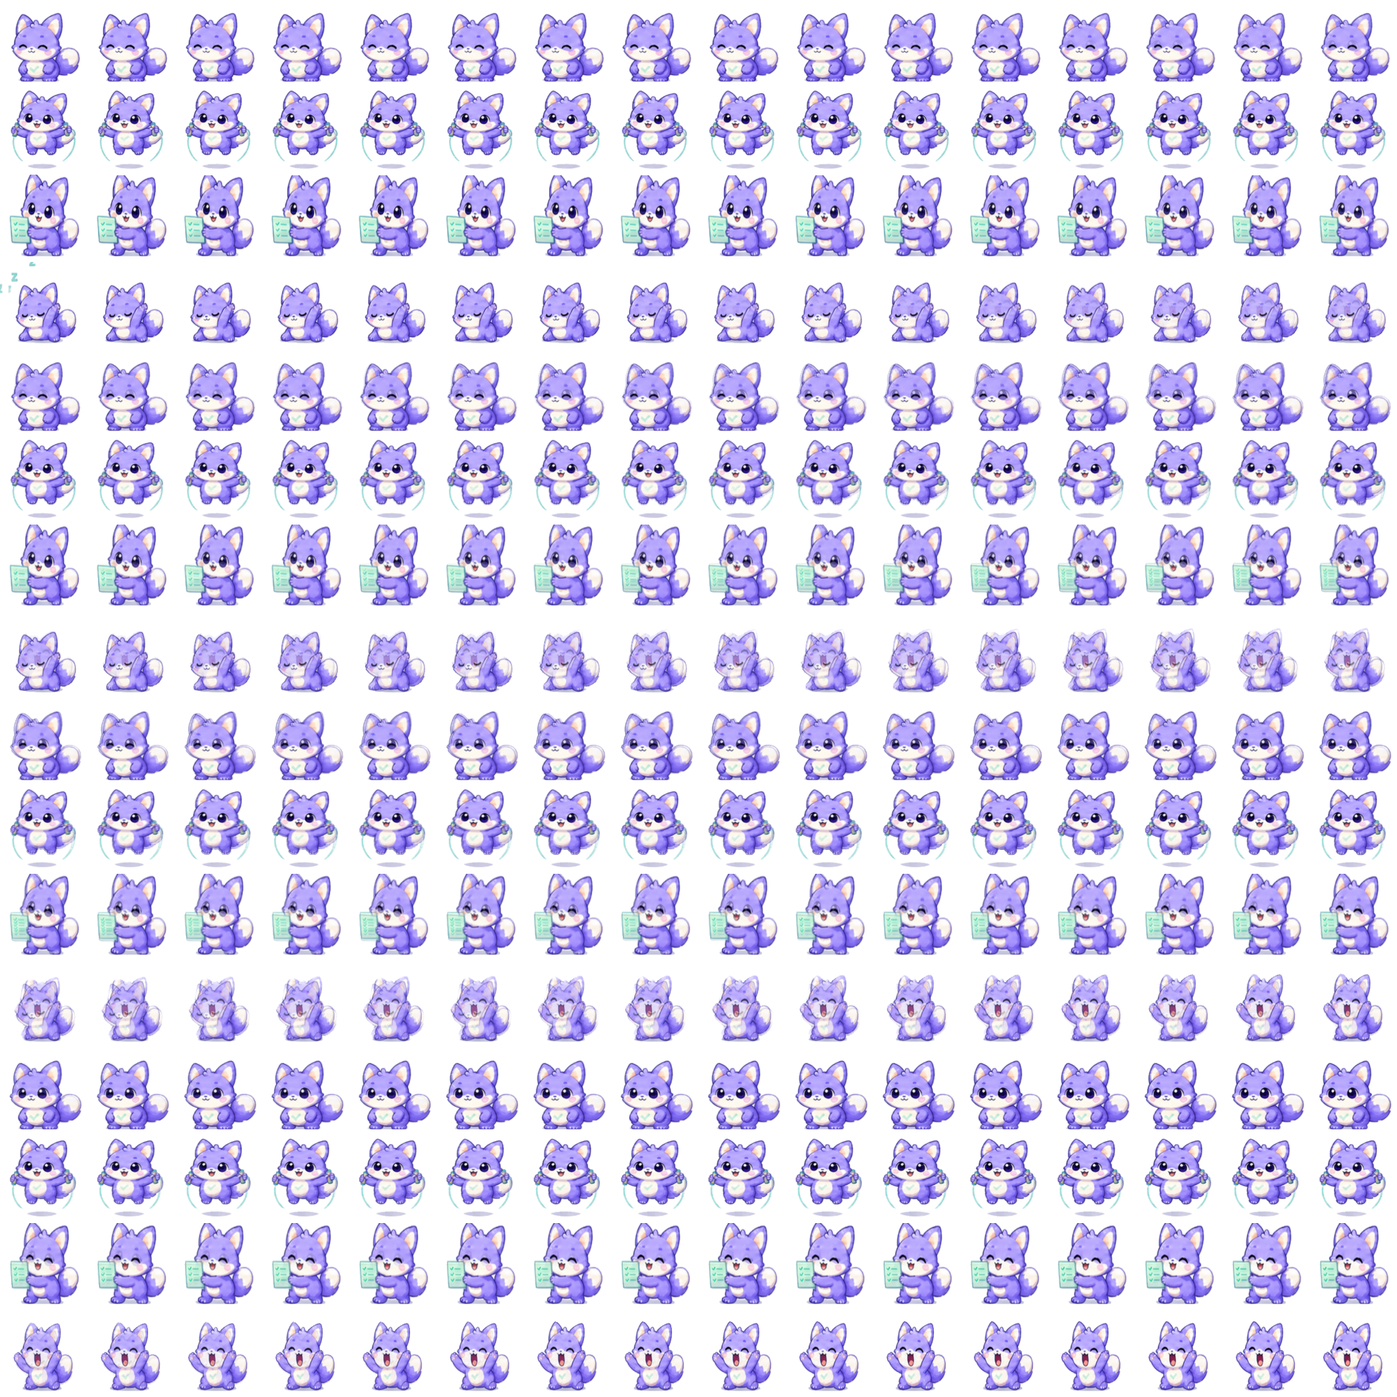
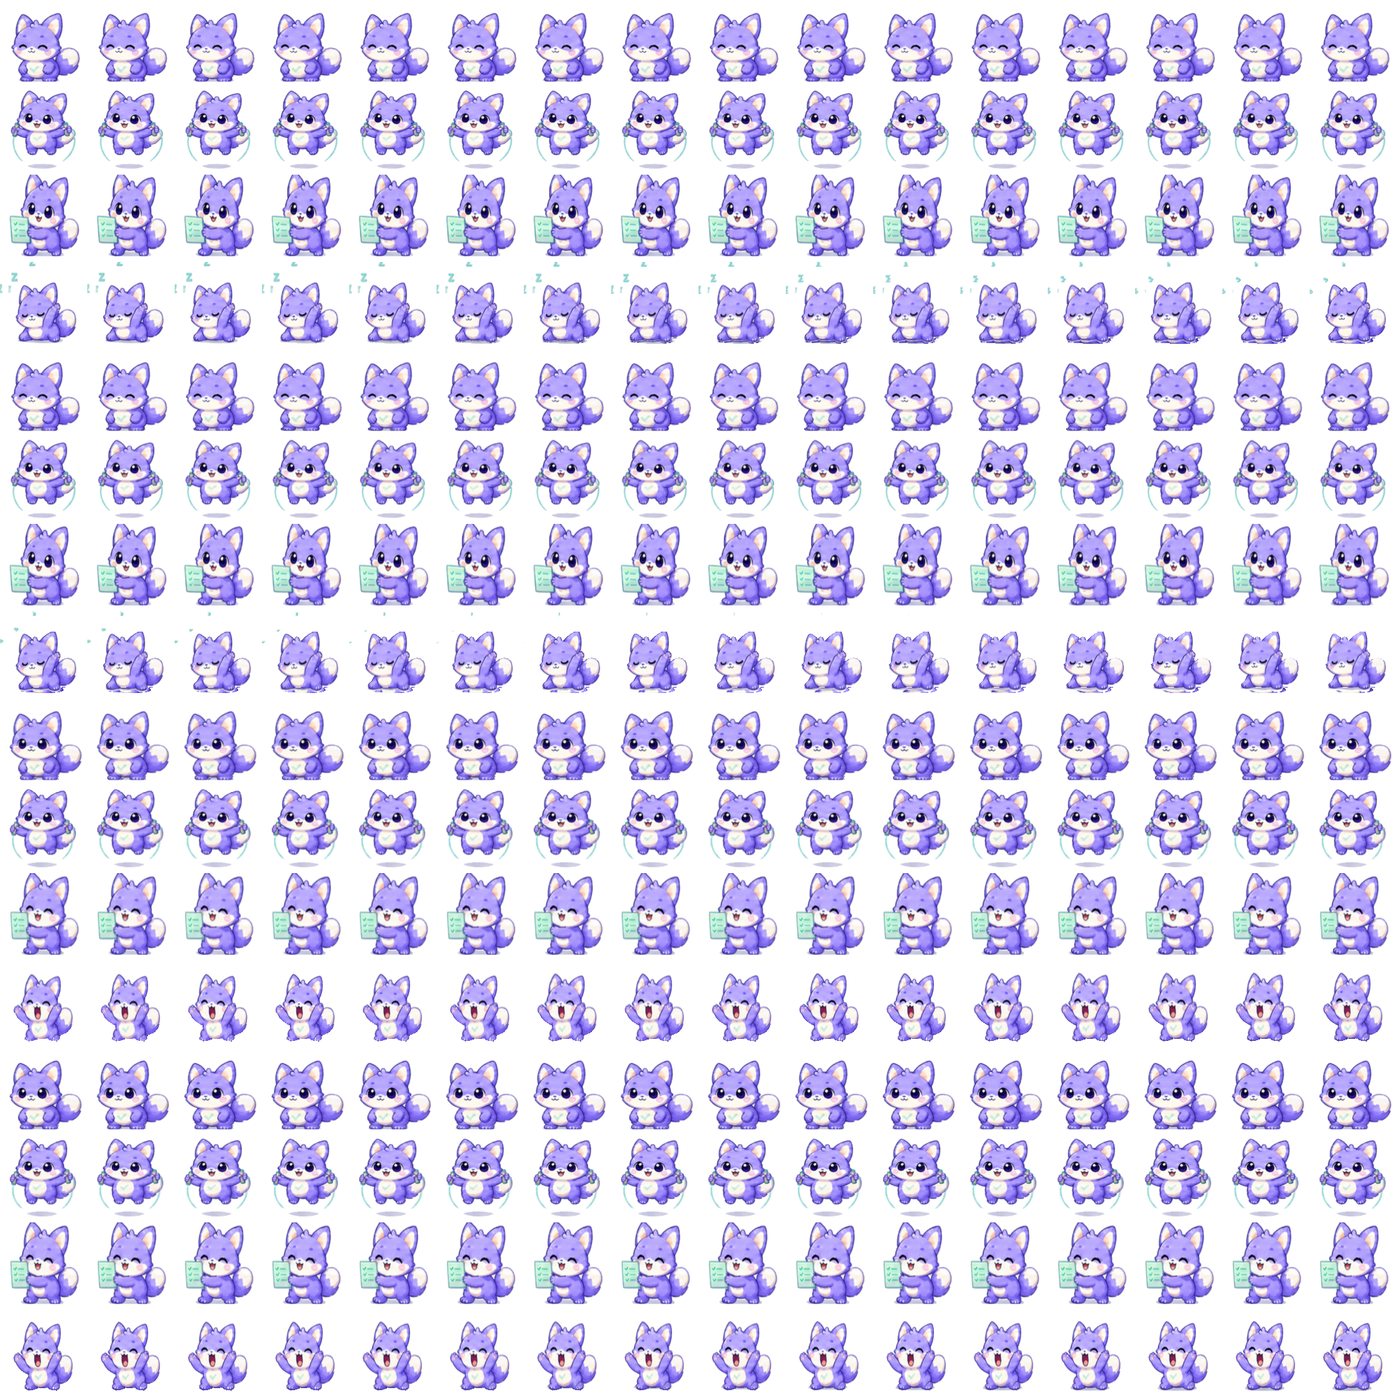
fix: remove ghost frames from Todo Pet motions

diff --git a/src/renderer/PetCharacter.tsx b/src/renderer/PetCharacter.tsx
@@ -1,4 +1,5 @@
 import {
+  memo,
   useCallback,
   useEffect,
   useId,
@@ -158,7 +159,7 @@ function schedulePetAtlasWarmup(): void {
  * cross-fading complete silhouettes: two overlapping transparent pets read as
  * a tearing tail/ear, especially during carrying and rope actions.
  */
-function PetAtlasCanvas({ sources, animation, onStep, onReady }: PetAtlasCanvasProps) {
+const PetAtlasCanvas = memo(function PetAtlasCanvas({ sources, animation, onStep, onReady }: PetAtlasCanvasProps) {
   const stackRef = useRef<HTMLSpanElement>(null);
   const imageMapRef = useRef(new Map<string, HTMLImageElement>());
   const animationKey = `${sources.join(",")}:${animation.name}:${animation.frames.length}:${animation.frames[0] ?? 0}`;
@@ -316,10 +317,12 @@ function PetAtlasCanvas({ sources, animation, onStep, onReady }: PetAtlasCanvasP
     };
     const authoredFrameDuration = Math.max(1, animation.frameDurationMs);
     // Keep a fractional playhead instead of tying motion to integer wall-clock
-    // ticks. At 60Hz the 8ms target is capped to one complete cell per
-    // refresh, while a 120Hz panel can advance one cell on every refresh.
-    // The presentation step below always chooses a complete cell, so no
-    // authored frame is replaced by a translucent double exposure.
+    // ticks. The authored 8ms cadence is time-accurate: a 60Hz panel consumes
+    // roughly two dense source cells per refresh, while a 120Hz panel usually
+    // consumes one. Dense source cells are intentionally much closer than a
+    // traditional keyframe, so this preserves the intended action duration
+    // without introducing a second translucent silhouette. The presentation
+    // step below still chooses one complete cell at a time.
     let sequencePosition = 0;
     let sequenceStarted = false;
     // The first two refresh callbacks can straddle image decode and a window
@@ -413,10 +416,10 @@ function PetAtlasCanvas({ sources, animation, onStep, onReady }: PetAtlasCanvasP
 
     const paint = (now: number): void => {
       // Do not fast-forward across a long main-thread/compositor pause. Keep
-      // at most one generated cell per paint. The fractional playhead below
-      // chooses a neighbouring complete pose, so a 60Hz display never skips
-      // over a whole in-between. The small warm-up gate prevents the first
-      // post-decode callback from inheriting a stale timestamp.
+      // at most three dense source cells per paint; this is enough to catch up
+      // from a single missed refresh while preventing a visible teleport. The
+      // small warm-up gate prevents the first post-decode callback from
+      // inheriting a stale timestamp.
       if (previousTimestamp === undefined) previousTimestamp = now;
       const delta = Math.max(0, now - previousTimestamp);
       previousTimestamp = now;
@@ -435,7 +438,7 @@ function PetAtlasCanvas({ sources, animation, onStep, onReady }: PetAtlasCanvasP
         );
         const positionAdvance = warmupPaints < 2
           ? 0
-          : Math.min(1, cappedDelta / authoredFrameDuration);
+          : Math.min(3, cappedDelta / authoredFrameDuration);
         if (shouldLoop) {
           sequencePosition = (sequencePosition + positionAdvance) % travelCount;
         } else {
@@ -500,12 +503,11 @@ function PetAtlasCanvas({ sources, animation, onStep, onReady }: PetAtlasCanvasP
       // one-attribute buffer flip. Adjacent offline cells are already dense
       // contour neighbours; keeping one opaque cell on screen avoids the
       // ghosting/tearing that an alpha blend of two moving bodies creates.
+      // `copy` replaces the hidden surface in one draw operation. There is no
+      // clear → draw gap for the compositor to observe, even on a busy
+      // transparent window. Compositing the previous pose with the new one
+      // was the source of the visible double exposure during handoff.
       nextContext.globalCompositeOperation = "copy";
-      // `copy` replaces the hidden surface in one operation. There is no
-      // active-canvas draw here: compositing the previous pose with the new
-      // one was the source of the visible double exposure during handoff.
-      nextContext.clearRect(0, 0, nextCanvas.width, nextCanvas.height);
-      nextContext.globalCompositeOperation = "source-over";
       nextContext.globalAlpha = 1;
       // A page boundary can briefly have the current cell decoded while the
       // look-ahead cell is still being decoded. Keep the current complete
@@ -563,14 +565,19 @@ function PetAtlasCanvas({ sources, animation, onStep, onReady }: PetAtlasCanvasP
       <canvas className="pet-atlas-canvas pet-atlas-motion pet-atlas-buffer-1" aria-hidden="true" data-ready={ready ? "true" : "false"} />
     </span>
   );
-}
+}, (previous, next) =>
+  previous.sources === next.sources &&
+  previous.animation === next.animation &&
+  previous.onStep === next.onStep &&
+  previous.onReady === next.onReady,
+);
 
 /**
  * The mascot combines generated frame-by-frame loops with the articulated
  * SVG rig kept below as a fallback and for precise interaction overlays. A
  * business state therefore changes both the pet's pose and its motion rhythm.
  */
-export function PetCharacter({
+function PetCharacterView({
   mood = "idle",
   emotion,
   action = "idle",
@@ -925,3 +932,28 @@ export function PetCharacter({
     </span>
   );
 }
+
+/**
+ * The floating window contains a streaming Agent transcript, a focus clock
+ * and several independently updating bubbles. Those updates must not cause
+ * the pet subtree to reconcile while its canvas is between two vsync paints:
+ * a React commit at that point can invalidate the compositor layer and make a
+ * perfectly paced atlas look like a low-FPS flipbook. The visual props below
+ * are the only inputs that can change the pet, so memoising on this small
+ * surface keeps the animation clock independent from the rest of the app.
+ */
+export const PetCharacter = memo(PetCharacterView, (previous, next) =>
+  previous.mood === next.mood &&
+  previous.emotion === next.emotion &&
+  previous.action === next.action &&
+  previous.name === next.name &&
+  previous.scalePercent === next.scalePercent &&
+  previous.compact === next.compact &&
+  previous.interactive === next.interactive &&
+  previous.palette === next.palette &&
+  previous.outfit === next.outfit &&
+  previous.season === next.season &&
+  previous.weatherEffect === next.weatherEffect &&
+  previous.personality === next.personality &&
+  previous.visualStyle === next.visualStyle,
+);

diff --git a/src/renderer/styles.css b/src/renderer/styles.css
@@ -5838,6 +5838,33 @@ button.dependency-graph-node:focus-visible {
   left: 104px;
   max-width: none;
 }
+/* Keep the reaction card and the task stack in two real grid rows. The old
+   absolute reaction card painted over the first task card whenever a pet
+   message was long (or the window was in the compact 184px height), making
+   the task appear to jump behind the bubble. The row hand-off reserves the
+   exact measured reaction height and leaves the remaining space scrollable. */
+.pet-shell.is-expanded.has-pet-reaction:not(.has-interaction-wheel):not(.has-coop-game) .pet-compact {
+  grid-template-rows: auto minmax(0, 1fr);
+  align-items: start;
+}
+.pet-shell.is-expanded.has-pet-reaction:not(.has-interaction-wheel):not(.has-coop-game) .pet-reaction-bubble {
+  position: relative;
+  inset: auto;
+  grid-column: 2;
+  grid-row: 1;
+  width: auto;
+  max-width: none;
+  margin: 4px 5px 0 0;
+  align-self: start;
+}
+.pet-shell.is-expanded.has-pet-reaction:not(.has-interaction-wheel):not(.has-coop-game) .pet-bubble-stack {
+  grid-column: 2;
+  grid-row: 2;
+  height: auto;
+  min-height: 0;
+  max-height: none;
+  align-self: stretch;
+}
 .pet-shell.is-expanded.pet-reaction-collapsed .pet-reaction-bubble {
   right: auto;
   width: max-content;
@@ -6411,7 +6438,7 @@ button.dependency-graph-node:focus-visible {
   inset: 0;
   display: block;
   overflow: hidden;
-  contain: paint;
+  contain: layout paint;
   isolation: isolate;
 }
 .pet-atlas-buffer-stack > .pet-atlas-canvas {
@@ -6419,6 +6446,10 @@ button.dependency-graph-node:focus-visible {
   inset: 0;
   opacity: 0;
   transition: none !important;
+  /* Both buffers are small, stable compositor layers. Explicitly promoting
+     opacity (instead of an unused transform layer) keeps the buffer flip on
+     one vsync commit and avoids a half-painted canvas under load. */
+  will-change: opacity;
 }
 .pet-atlas-buffer-stack[data-active-buffer="0"] > .pet-atlas-buffer-0,
 .pet-atlas-buffer-stack[data-active-buffer="1"] > .pet-atlas-buffer-1 {
@@ -6429,7 +6460,11 @@ button.dependency-graph-node:focus-visible {
   width: 100%;
   height: 100%;
   transform-origin: center bottom;
-  will-change: transform;
+  /* The atlas is a complete-pose surface. It is swapped through opacity,
+     never moved with a CSS transform; advertising a transform layer here
+     makes Chromium promote each buffer twice and can let the two layers land
+     on different compositor commits. */
+  will-change: auto;
   backface-visibility: hidden;
   -webkit-backface-visibility: hidden;
 }
@@ -6440,7 +6475,10 @@ button.dependency-graph-node:focus-visible {
   user-select: none;
   pointer-events: none;
   image-rendering: auto;
-  will-change: transform;
+  /* Keep the promotion aligned with the buffer flip above. A transform hint
+     on this element is unused and was a source of one-vsync stale frames on
+     transparent always-on-top windows. */
+  will-change: opacity;
   backface-visibility: hidden;
   -webkit-backface-visibility: hidden;
   contain: paint;
@@ -6992,10 +7030,24 @@ button.dependency-graph-node:focus-visible {
 .pet-bubble-stack {
   min-width: 0;
   max-height: 100%;
+  min-height: 0;
+  height: 100%;
+  align-self: stretch;
   display: flex;
   flex-direction: column;
-  justify-content: center;
+  justify-content: flex-start;
   gap: 7px;
+  /* A focus card, a task card and a gentle reminder can coexist in the
+     compact 184px surface. Keep their geometry in one scroll container
+     instead of allowing the cards to paint on top of one another (which also
+     makes the pet appear to jump when a card opens or closes). The left
+     padding reserves room for each speech-tail without clipping it. */
+  overflow-y: auto;
+  overflow-x: hidden;
+  overscroll-behavior: contain;
+  scrollbar-gutter: stable;
+  padding: 3px 5px 3px 8px;
+  scrollbar-width: thin;
 }
 .pet-speech-bubble {
   position: relative;
@@ -7010,6 +7062,15 @@ button.dependency-graph-node:focus-visible {
   backdrop-filter: blur(20px) saturate(1.08);
   -webkit-backdrop-filter: blur(20px) saturate(1.08);
   transform-origin: left center;
+}
+/* A transparent always-on-top window has no reliable backdrop surface on
+   macOS/Windows. Blurring it every time the pet repaints can force the whole
+   window through the compositor and show a one-frame glow/tear. The bubble
+   already has a 96% opaque surface, so keeping this layer solid preserves the
+   glass look while letting the atlas stay on its own refresh path. */
+.floating-shell .pet-speech-bubble {
+  backdrop-filter: none;
+  -webkit-backdrop-filter: none;
 }
 .pet-speech-bubble::before {
   content: "";

diff --git a/src/renderer/pet-atlas.ts b/src/renderer/pet-atlas.ts
@@ -33,11 +33,10 @@ import interactionAtlasPage12 from "../assets/todo-pet-interaction-atlas-v21-12.
  * 16,384px texture limit and could make the compositor tear while sampling a
  * new cell. Every v23/v21 page is 2,048×2,048px (the final page is padded
  * transparent), so no hidden driver tiling is needed. Cells are authored at
- * 128px and retain the authored high-density frames from the v23/v21 source
- * strips. Runtime pages are deliberately a lossless split of those strips:
- * the offline interpolator remains available for experiments, but generated
- * contour blends are not shipped when they introduce a coloured edge or
- * double silhouette around a key pose.
+ * 128px and retain the authored high-density timing from the v23/v21 source
+ * strips. Runtime pages are generated with a single-pose hand-off
+ * interpolator: each dense cell contains one complete pet, never a coloured
+ * edge or double silhouette from a raster cross-fade.
  */
 export const TODO_PET_ATLAS_URL = atlasUrl;
 export const TODO_PET_MOTION_ATLAS_URLS = [

diff --git a/tests/pet-atlas.test.ts b/tests/pet-atlas.test.ts
@@ -97,9 +97,10 @@ describe("Todo Pet generated action atlas", () => {
       expect(animation.columns).toBe(TODO_PET_ATLAS_PAGE_COLUMNS);
       expect(animation.rows).toBe(TODO_PET_ATLAS_PAGE_ROWS);
       expect(animation.loop).toBe(true);
-      // Fast loops target 8ms so 120Hz panels can present a fresh authored
-      // cell on every refresh. The renderer still caps advancement at one
-      // cell per paint, so 60Hz displays never skip across the atlas.
+      // Fast loops target 8ms so 120Hz panels can present a fresh dense cell
+      // on every refresh. The renderer advances by the elapsed authored time
+      // (up to three neighbouring cells per paint), so 60Hz displays keep
+      // the intended action duration without a large catch-up jump.
       expect(animation.frameDurationMs).toBeGreaterThanOrEqual(8);
     }
   });

diff --git a/docs/IMPLEMENTATION_STATUS.md b/docs/IMPLEMENTATION_STATUS.md
@@ -23,6 +23,10 @@
 
[1 lines of base64/hex data omitted]
 
+> v2.87 渲染隔离与气泡堆叠稳定性（2026-08-31）：真实运行时采样确认 Canvas 可以稳定跟随约 120Hz 刷新，但 Agent 流式输出、专注时钟和气泡状态会让父级 React 树频繁提交，造成视觉上像掉帧。`PetCharacter` 与 `PetAtlasCanvas` 现在按视觉输入记忆化，非动作变化不会重建 Canvas；隐藏缓冲用一次 `globalCompositeOperation="copy"` 完整替换，避免清空/绘制之间的空隙。播放头按 8ms 素材节拍恢复时间准确推进，60Hz 会消化约两格相邻高帧而不是把动作拉成慢半拍，单次追帧仍限制在三格以内。紧凑小窗中的任务、专注和提醒气泡统一进入可滚动堆叠区，内容超出时不再相互覆盖或把宠物位置一起推跳。源码类型检查、相关 Vitest、生产构建和真实 Electron 120Hz rAF 采样通过。
+
+> v2.88 单姿态过渡与高帧图集重建（2026-08-31）：复核逐帧截图后确认，旧的 signed-distance 彩色混合即使有 63 个插帧，也会在耳朵、尾巴和跳跃落点形成半透明双轮廓，视觉上像“帧少、撕裂”。离线插帧器现在对所有姿态过渡统一采用单一完整姿态沿身体/道具锚点路径移动，在半程交接下一姿态；运行时页面重新从该策略生成 v23/v21 图集，保留 577 / 769 格密集时间轴，交接只占一个 8ms 显示节拍，不再绘制两只重叠宠物。主/互动四行以及跳绳、搬运、摸头等动作的关键帧截图抽检无双轮廓；类型检查、全量 Vitest、生产构建与真实 Electron 刷新采样在新资源上通过。
+
 > v2.05 回归基线：未启动会弹窗的 Electron E2E；Todo Pet 小窝可选择六种本地陪伴性格，并可邀请最多 3 个只存在于小窝的房间伙伴，伙伴可点击互动并给出本地短句；有伙伴和开放任务时，小窝可用固定角色组成临时小队，准备后直接开始原任务专注或打开原任务；非仅宠物的紧凑桌面形态在天气开启且已有缓存时显示可点击天气胶囊，展示温度、状况、降水、缓存/严重提示并可打开既有天气卡片，隐私模式隐藏城市且不读取定位；时间线今天的日视图增加本地“现在”指示线和回到现在入口；设置新增可视化动作包编辑器，可从内置动作组合并安装启用安全声明式动作包；小窝新增共同收藏图鉴、共同旅程章节和共同完成印章，分别投影真实奖励库存、项目任务进度与真实完成任务事实；房间云灯、小植物和任务书架支持直接拖动、安全的位置微调、大小调整和恢复默认，旧宠物档案自动使用默认布局；小窝新增明亮日光、柔和灯光和月光夜色三档纯本地视觉氛围，并在开启季节小事件时投影四季内置装饰层；颜色主题包编辑器支持最多 12 个本机主题和四个 hex 颜色，并可加入 512 KB 以内 PNG/JPEG/WebP 背景、导出可读 JSON、导入预览后安装，严格拒绝脚本、路径、URL、SVG 和任意 CSS；Agent 可选跟随 Todo Pet 当前陪伴性格，或保持独立人格，旧设置默认开启联动；Vitest 单元/集成测试 129 个文件、804/804 通过，类型检查、生产构建和差异检查通过。此前已包含日历事件卡会后跟进任务预填与确认入口、时间线周视图估时复盘、主/备用模型价格档案、按提供方回报 token 的本地费用累计、每日费用硬上限、缺少可计费用量时的 fail-closed 覆盖、本机最多 8 个短期 Agent 会话归档/切换/搜索/重命名/置顶/删除，以及主 Agent 上下文快捷回答建议。
 
 > v2.06 增量：菜单栏 / 系统托盘新增只读“今日待办”预览，读取同一份 Today 任务快照并显示最多 3 项未完成任务与总数；点击回到既有 Today 视图，隐私模式将标题脱敏，任务读取失败只降级菜单。新增托盘投影测试后，单元/集成测试基线为 130 个文件、808/808 通过；未启动会弹窗的 Electron E2E。

diff --git a/README.md b/README.md
@@ -8,7 +8,7 @@ Agent 能力在“设置 → 权限中心”分成五层：任务读写、飞书
 
 > 住在桌面上的本地优先任务伙伴，适用于 macOS 和 Windows。
 
-Todo Agent 用一只原创的 Todo Pet 替代传统悬浮球和胶囊：它常驻桌面、轮播今天的任务，也能展开为任务面板、番茄钟、流式 Agent 对话和小窝。宠物默认使用 GPT Image 生成并规整的透明高帧动作图集：主动作是每组 577 个播放帧（10 个原始姿势 + 每段 63 个离线轮廓插帧），互动动作是每组 769 个播放帧（13 个原始姿势 + 每段 63 个离线轮廓插帧），摸头使用连续的 0→6 姿势段，避免手部在循环中凭空消失。插帧构建阶段使用预乘透明度双线性采样，亚像素位移不会再以整像素跳变；身体和独立道具在同一移动轮廓内连续混合，避免中点换色和手/绳闪现造成撕裂。运行时图集按 16 列分页纵向堆叠（每格 128px，宽度固定 2048px），避开 macOS WebKit 超宽纹理的隐式切片；播放器在 Canvas 中按设备实际 60/90/120Hz 刷新率精确裁帧，并保留分数播放头把当前格与下一格按剩余进度合成（60Hz 会一次消化多个 8ms 插帧，但每次最多跨 4 格），避免高刷屏重复展示同一格、低刷悬浮窗被拖成慢动作和隔帧撕裂。每次只用一次 `copy` 合成替换完整 cell，并以正向/反向往返播放。源矩形会避开一像素邻格采样；两层 Canvas 采用隐藏缓冲后再切换，动作切换再用 5 个显示节拍的完整像素交接，图集解码期间保留同动作 SVG 后备姿态。悬浮窗关闭后台渲染降频，失焦时仍按显示时钟绘制。图集不叠加第二套大幅位移，SVG 交互覆盖层与降级路径仍然保留。没有账号、网络或模型时，本地任务、专注、提醒、成长与日记依然可用。
+Todo Agent 用一只原创的 Todo Pet 替代传统悬浮球和胶囊：它常驻桌面、轮播今天的任务，也能展开为任务面板、番茄钟、流式 Agent 对话和小窝。宠物默认使用 GPT Image 生成并规整的透明高帧动作图集：主动作是每组 577 个播放帧（10 个原始姿势 + 每段 63 个密集过渡帧），互动动作是每组 769 个播放帧（13 个原始姿势 + 每段 63 个密集过渡帧），摸头使用连续的 0→6 姿势段，避免手部在循环中凭空消失。过渡帧不再把两张完整宠物做透明叠加，而是让一个完整姿态沿身体/道具锚点路径移动，在半程交接下一姿态；因此耳朵、尾巴、绳子和道具不会出现彩边或双影，交接只占一个 8ms 显示节拍。运行时图集按 16 列分页纵向堆叠（每格 128px，宽度固定 2048px），避开 macOS WebKit 超宽纹理的隐式切片；播放器在 Canvas 中按设备实际 60/90/120Hz 刷新率推进，按真实 8ms 素材时长每次消化一到三格相邻帧，避免低刷窗口被拖成慢动作或忙碌时瞬移。每次只用一次 `copy` 合成替换完整 cell，并以正向/反向往返播放。源矩形会避开一像素邻格采样；两层 Canvas 采用隐藏缓冲后再切换，动作切换保留上一张完整帧，图集解码期间保留同动作 SVG 后备姿态。悬浮窗关闭后台渲染降频，失焦时仍按显示时钟绘制；流式 Agent 和气泡更新不会重建宠物动画层。没有账号、网络或模型时，本地任务、专注、提醒、成长与日记依然可用。
 
 参考 `rullerzhou-afk/clawd-on-desk` 的桌面 Agent 观察体验，Todo Pet 还提供可选的本机活动桥接：Claude Code、Codex CLI、Copilot、Gemini、Cursor、OpenClaw、Hermes、opencode、MiMo、Qoder、Qwen、TraeCode 等外部 Agent 可以把思考、工具执行、并行子任务、等待确认和错误状态投影到宠物及“动态”页。桥接只监听 `127.0.0.1`，使用 Token 和允许列表保护，不读取提示词、工具参数或文件内容；外部 Agent 的模型、订阅和权限仍由其自身负责。设置与接入示例见 [clawd-on-desk 能力融合说明](./docs/CLAWD_INTEGRATION.md)。
 
